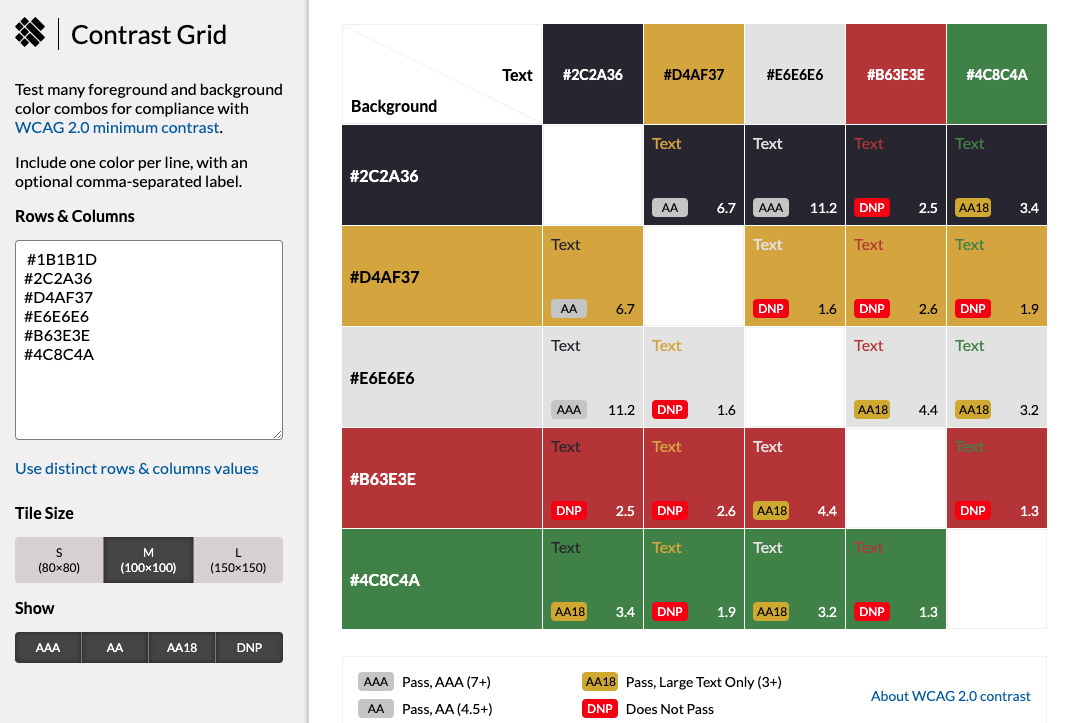
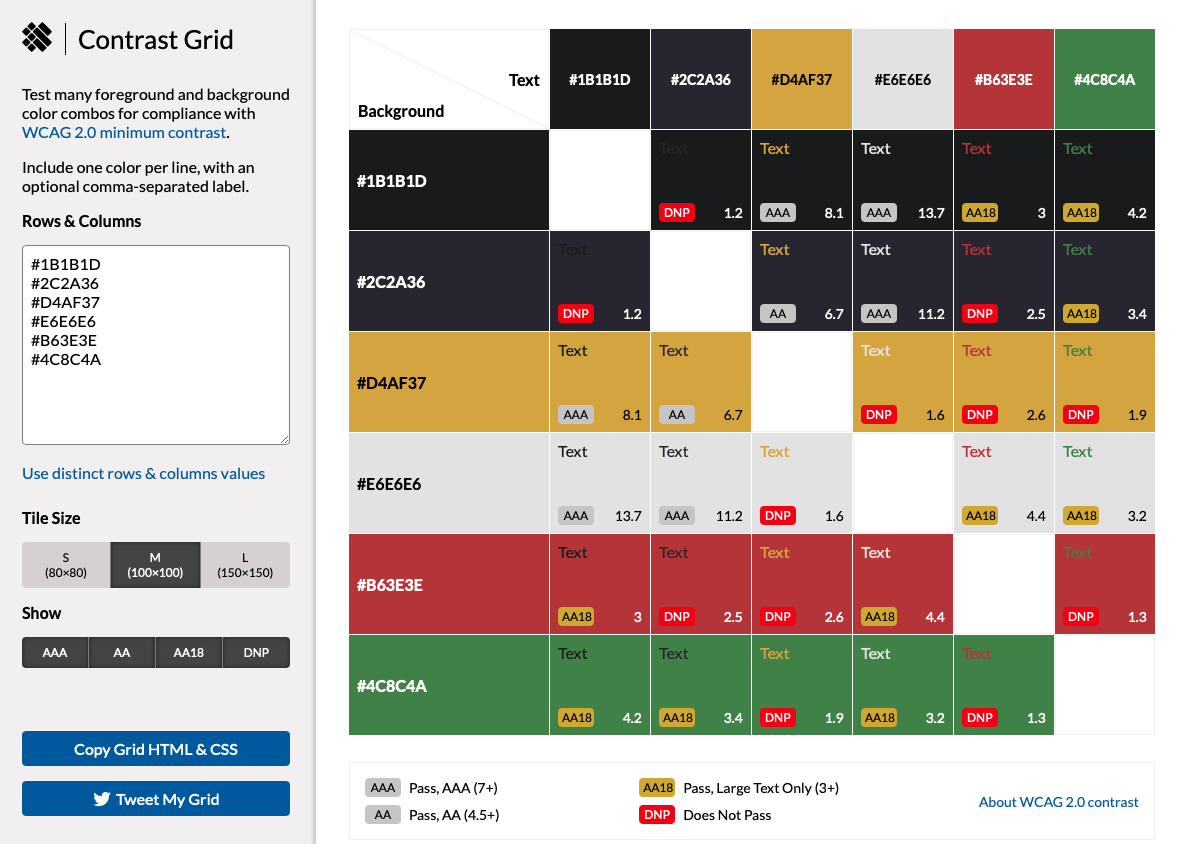
Add sorting and filtering to home page

diff --git a/home/templates/home/index.html b/home/templates/home/index.html
@@ -11,52 +11,118 @@
 {% endblock %}
 
 {% block content %}
-  <section clas='title'>
+<section clas='title'>
     <div class="home-page-title">
-                <h1>
-                    Welcome to Gamers Guild
-                </h1>
-            </div>
-        </div>
+      <h1>
+        Welcome to Gamers Guild
+      </h1>
     </div>
+
   </section>
-<div class="container-fluid">
-  <div class="card-display row">
-    <div class="col-12 mt-3">
-      <div class="row g-4">
-        {% for boardgame in boardgames %}
-        <div class="col-md-4 d-flex">
-          <article class="boardgame-card h-100 w-100">
-            <a href="{% url 'boardgame_detail' boardgame.slug %}" class="boardgame-link">
-            {% if boardgame.image %}
-            <img
-              src="{{ boardgame.image.url }}"
-              class="card-img-top"
-              alt="{{ boardgame.title }}">
-            {% else %}
-            <img
-              class="card-img-top"
-              alt="Boardgame placeholder"
-            >
-            {% endif %} </a>
-            <div class="card-body">
-              <h2 class="card-title">
-                <a
-                 href="{% url 'boardgame_detail' boardgame.slug %}"
-                  class="boardgame-link"
-                  >{{ boardgame.title }}</a
-                >
-              </h2>
-              <hr>
-              <div class="player-count card-text"><i class="fa-solid fa-people-group"></i> {{boardgame.min_players}} - {{boardgame.max_players }}</div>
-             
+<section class="games-container">
+    <div class="sort-filter-container">
+      <section class="filter">
+            {% include "includes/mobile-shop-filter.html" %}
+            <div data-sticky-sidebar class="filter-sidebar d-none d-md-block">
+              <p class="filter-header">Filter By:</p>
             </div>
-          </article>
+      </section>
+      <section class="sort-dropdown">
+        <select id="sort-selector" class="form-select form-select-sm">
+          <option value="reset"
+                  {% if current_sorting == 'None_None' %}selected{% endif %}>Sort by...</option>
+          <option value="price_asc"
+                  {% if current_sorting == 'price_asc' %}selected{% endif %}>Price (low to high)</option>
+          <option value="price_desc"
+                  {% if current_sorting == 'price_desc' %}selected{% endif %}>Price (high to low)</option>
+          <option value="rating_asc"
+                  {% if current_sorting == 'rating_asc' %}selected{% endif %}>Rating (low to high)</option>
+          <option value="rating_desc"
+                  {% if current_sorting == 'rating_desc' %}selected{% endif %}>Rating (high to low)</option>
+          <option value="name_asc"
+                  {% if current_sorting == 'name_asc' %}selected{% endif %}>Name (A-Z)</option>
+          <option value="name_desc"
+                  {% if current_sorting == 'name_desc' %}selected{% endif %}>Name (Z-A)</option>
+          <option value="category_asc"
+                  {% if current_sorting == 'category_asc' %}selected{% endif %}>Category (A-Z)</option>
+          <option value="category_desc"
+                  {% if current_sorting == 'category_desc' %}selected{% endif %}>Category (Z-A)</option>
+        </select>
+        <div class="col-12 col-md-6">
+          <p>
+            {% if search_term or current_categories or current_sorting != 'None_None' %}
+              <span class="small">
+                <a href="{% url 'home' %}">Clear Sorting</a> |
+              </span>
+            {% endif %}
+            {{ boardgames|length }} Games
+            {% if search_term %}found for <strong>"{{ search_term }}"</strong>{% endif %}
+          </p>
         </div>
-        {% endfor %}
+      </section>
+      <div class="btt-btn">
+        <a class="btt-link">
+          <i class="fas fa-arrow-up"></i>
+        </a>
+      </div>
+
+    </div>
+      <section class="main-games">
+          <div class="filter-wrapper d-none d-md-block">
+            <p class="genre-header">Genre</p>
+              <form method="GET" action="{% url "home" %}">
+                {% for genre in genres %}
+                  <div class="genre-badge">
+                    <label>
+                      <input type="checkbox"
+                            name="genre"
+                            value="{{ genre.id }}"
+                            onchange="this.form.submit()"
+                            {% if genre.id|stringformat:"s" in current_genres %}checked{% endif %}>
+                      {{ genre.name }}
+                    </label>
+                  </div>
+                {% endfor %}
+              </form>
+            <a href="{% url 'home' %}" class="btn clear-filters-btn">Clear Filters</a>
+        </div>
+  <div class="container-fluid games">
+    <div class="card-display row">
+      <div class="col-12 mt-3">
+        <div class="row g-4">
+          {% for boardgame in boardgames %}
+          <div class="col-md-4 d-flex">
+            <article class="boardgame-card h-100 w-100">
+              <a href="{% url 'boardgame_detail' boardgame.slug %}" class="boardgame-link">
+              {% if boardgame.image %}
+              <img
+                src="{{ boardgame.image.url }}"
+                class="card-img-top"
+                alt="{{ boardgame.title }}">
+              {% else %}
+              <img
+                class="card-img-top"
+                alt="Boardgame placeholder"
+              >
+              {% endif %} </a>
+              <div class="card-body">
+                <h2 class="card-title">
+                  <a
+                  href="{% url 'boardgame_detail' boardgame.slug %}"
+                    class="boardgame-link"
+                    >{{ boardgame.title }}</a
+                  >
+                </h2>
+                <hr>
+                <div class="player-count card-text"><i class="fa-solid fa-people-group"></i> {{boardgame.min_players}} - {{boardgame.max_players }}</div>
+              
+              </div>
+            </article>
+          </div>
+          {% endfor %}
+        </div>
       </div>
     </div>
   </div>
-</div>
-    
+  </section>  
 {% endblock %}

diff --git a/static/css/base.css b/static/css/base.css
@@ -42,6 +42,7 @@ header {
 
 .navbar-nav .nav-link.active {
   text-decoration: underline;
+  text-decoration-color: var(--primary-highlight);
 }
 
 .btn {
@@ -60,6 +61,8 @@ h1, h2, h3, h4, h5, h6,
 .navbar-brand,
 .nav-link {
   font-family: var(--font-heading);
+  color: var(--text);
+  -webkit-text-stroke: .5px var(--primary-highlight);
 }
 
 h1 {
@@ -140,7 +143,7 @@ h1 {
     display: block;
 }
 
-.shop-container {
+.shop-container, .games-container {
   display: flex;
   flex-direction: column;
 }
@@ -365,7 +368,7 @@ padding: 0.3rem;
 
 @media (min-width: 768px) {
   
-.shop-container {
+.shop-container, .games-container {
   position: sticky;
 }
 
@@ -387,7 +390,7 @@ padding: 0.3rem;
   margin-left: 0.75rem;
  }
 
- .products {
+ .products, .games {
   width: 80%;
   margin-left: 1rem;
   margin-top: 1rem;
@@ -397,11 +400,11 @@ padding: 0.3rem;
   border-radius: 1rem;
   }
 
- .product-card {
+ .product-card, .boardgame-card {
   background-color: var(--primary-color);
  }
 
-  .main-shop {
+  .main-shop, .main-games {
     display: flex;
   }
 }
@@ -418,4 +421,4 @@ padding: 0.3rem;
 
 @media (min-width: 1400px) {
 
- }
+}

diff --git a/home/views.py b/home/views.py
@@ -1,12 +1,64 @@
-from django.shortcuts import render, get_object_or_404, redirect
-from django.views import generic
-from .models import Boardgame
+from django.shortcuts import render, get_object_or_404
+from django.contrib import messages
+from django.db.models import Q
+from django.db.models.functions import Lower
+from .models import Boardgame, Genre
 
 
-class BoardgameList(generic.ListView):
-    queryset = Boardgame.objects.all()
-    context_object_name = "boardgames"
-    template_name = "home/index.html"
+def home(request):
+    boardgames = Boardgame.objects.all()
+    genres = Genre.objects.all()
+
+    query = None
+    selected_genres = []
+    sort = None
+    direction = None
+
+    if 'q' in request.GET:
+        query = request.GET.get('q')
+        if query:
+            boardgames = boardgames.filter(
+                Q(title__icontains=query) |
+                Q(description__icontains=query)
+            )
+
+    if 'genre' in request.GET:
+        selected_genres = request.GET.getlist('genre')
+        if selected_genres:
+            boardgames = boardgames.filter(
+                genres__id__in=selected_genres
+            ).distinct()
+
+    if 'sort' in request.GET:
+        sort = request.GET.get('sort')
+        direction = request.GET.get('direction')
+
+        if sort == 'title':
+            boardgames = boardgames.annotate(
+                lower_title=Lower('title')
+            )
+            sortkey = 'lower_title'
+        elif sort == 'release_year':
+            sortkey = 'release_year'
+        else:
+            sortkey = sort
+
+        if direction == 'desc':
+            sortkey = f'-{sortkey}'
+
+        boardgames = boardgames.order_by(sortkey)
+
+    current_sorting = f"{sort}_{direction}"
+
+    context = {
+        'boardgames': boardgames,
+        'genres': genres,
+        'search_term': query,
+        'current_genres': selected_genres,
+        'current_sorting': current_sorting,
+    }
+
+    return render(request, "home/index.html", context)
 
 
 def boardgame_detail(request, slug):

diff --git a/shop/views.py b/shop/views.py
@@ -30,7 +30,7 @@ def all_products(request):
     if 'category' in request.GET:
         selected_categories = request.GET.getlist('category')
 
-    if selected_categories:   
+    if selected_categories:
         categories = Category.objects.filter(type__in=selected_categories)
 
         expanded_categories = []
@@ -46,7 +46,7 @@ def all_products(request):
         selected_categories = expanded_categories
 
         products = products.filter(category__type__in=selected_categories)
-        
+
         selected_categories = selected_categories
 
     if 'sort' in request.GET:

diff --git a/home/urls.py b/home/urls.py
@@ -1,8 +1,9 @@
 from django.contrib import admin
 from django.urls import path
 from . import views
+from .views import home
 
 urlpatterns = [
-    path("", views.BoardgameList.as_view(), name="home"),
+    path("", home, name="home"),
     path("<slug:slug>/", views.boardgame_detail, name="boardgame_detail"),
 ]

diff --git a/home/models.py b/home/models.py
@@ -4,9 +4,6 @@ from django.core.exceptions import ValidationError
 from django.core.validators import MinValueValidator, MaxValueValidator
 
 
-# Create your models here.
-
-
 class Genre(models.Model):
     name = models.CharField(max_length=50)
 

diff --git a/README.md b/README.md
@@ -213,7 +213,7 @@ This combination ensures a clear visual hierarchy while maintaining both aesthet
 
 ![Coolors Scheme](docs/coolors.png)
 
-[Contrast Grid](https://contrast-grid.eightshapes.com/?version=1.1.0&background-colors=&foreground-colors=%20%231B1B1D%0D%0A%232C2A36%0D%0A%23D4AF37%0D%0A%23E6E6E6%0D%0A%23B63E3E%0D%0A%234C8C4A&es-color-form__tile-size=regular&es-color-form__show-contrast=aaa&es-color-form__show-contrast=aa&es-color-form__show-contrast=aa18&es-color-form__show-contrast=dnp "Contrast Grid") was used to determine the best colour combinations to ensure the website was visually appealing whilst remaining easy for the user to read the content.
+[Contrast Grid](https://contrast-grid.eightshapes.com/?version=1.1.0&background-colors=&foreground-colors=%231B1B1D%0D%0A%232C2A36%0D%0A%23D4AF37%0D%0A%23E6E6E6%0D%0A%23B63E3E%0D%0A%234C8C4A&es-color-form__tile-size=regular&es-color-form__show-contrast=aaa&es-color-form__show-contrast=aa&es-color-form__show-contrast=aa18&es-color-form__show-contrast=dnp "Contrast Grid") was used to determine the best colour combinations to ensure the website was visually appealing whilst remaining easy for the user to read the content.
 
 ![Contrast Grid](docs/contrast-grid.png)
 
